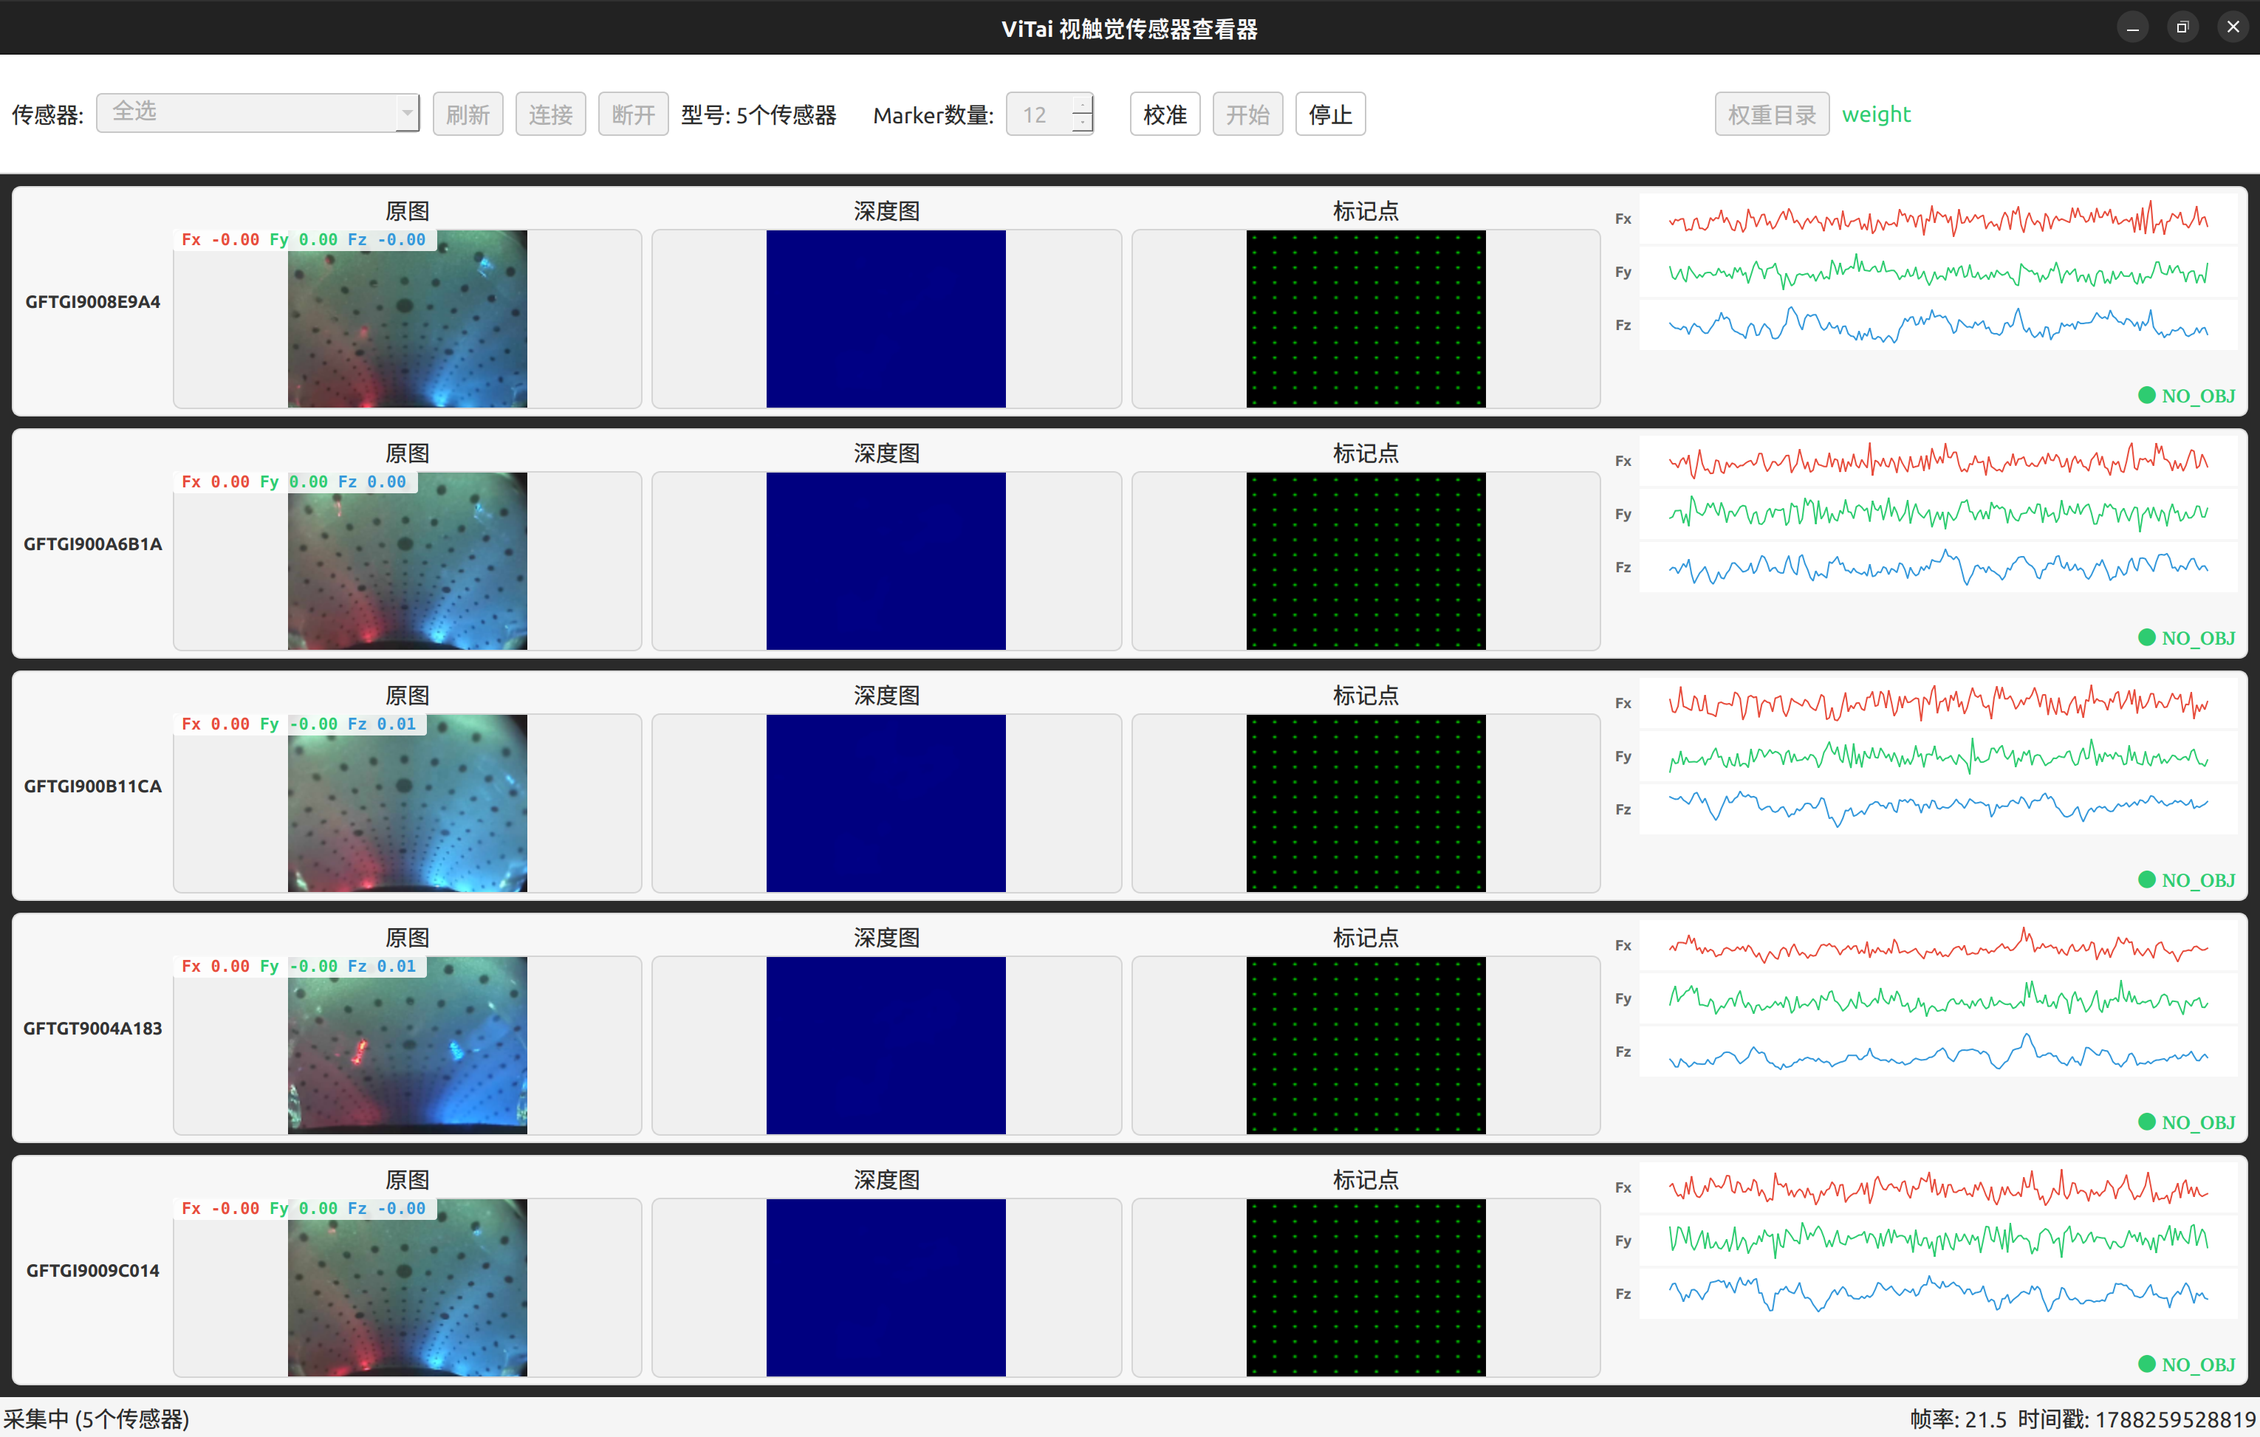
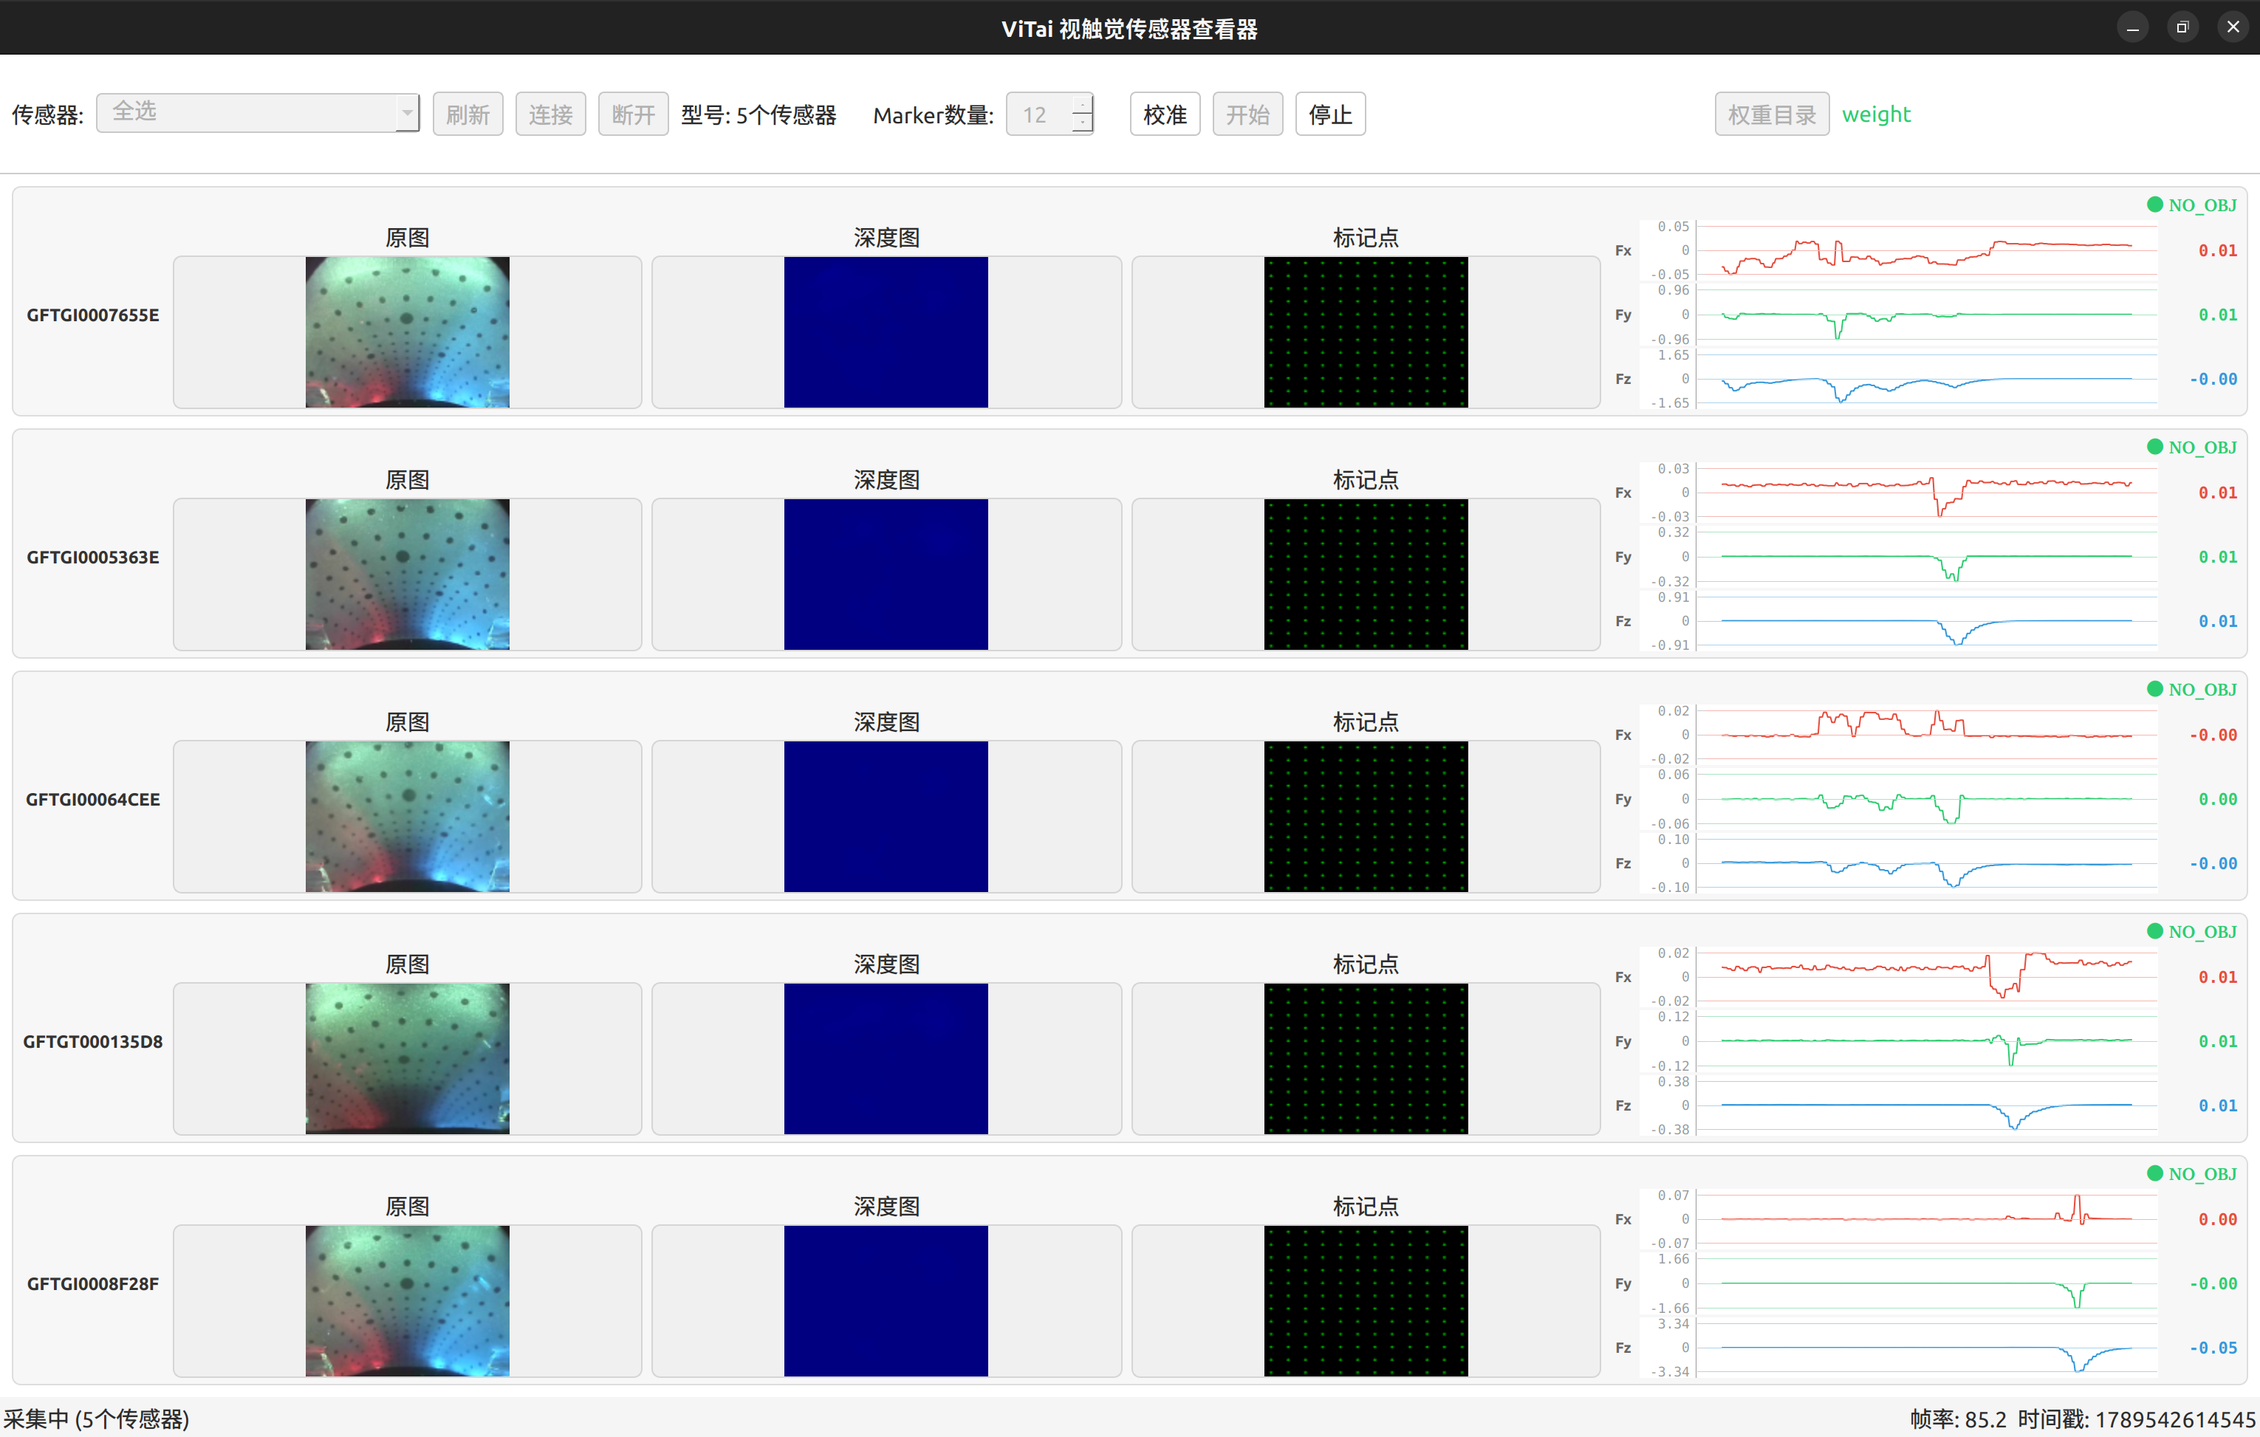
add:vertical axis of the waveform diagram

Changed region(s): [[0.0, 0.1233, 1.0, 1.0]]

diff --git a/app/widgets/multi_sensor_viewer.py b/app/widgets/multi_sensor_viewer.py
@@ -1,5 +1,3 @@
-import sys
-
 from PyQt6.QtWidgets import (
     QWidget,
     QVBoxLayout,
@@ -7,7 +5,8 @@ from PyQt6.QtWidgets import (
     QGridLayout,
     QLabel,
     QFrame,
-    QScrollArea,
+    QStackedWidget,
+    QScrollBar,
 )
 from PyQt6.QtCore import Qt
 from PyQt6.QtGui import QFont
@@ -15,9 +14,6 @@ from PyQt6.QtGui import QFont
 from app.widgets.image_viewer import ImageLabel
 from app.widgets.data_panel import ForcePlots
 from pyvitaisdk import VTSDataType
-
-
-_MONO_FONT = "Consolas" if sys.platform == "win32" else "DejaVu Sans Mono"
 
 
 class SensorRowWidget(QFrame):
@@ -30,8 +26,23 @@ class SensorRowWidget(QFrame):
         self._setup_ui()
 
     def _setup_ui(self):
-        h = QHBoxLayout(self)
-        h.setContentsMargins(6, 4, 6, 4)
+        # 整体行：右上角放小号滑动状态，下面为名称 + 图像 + 波形
+        v = QVBoxLayout(self)
+        v.setContentsMargins(6, 2, 6, 4)
+        v.setSpacing(2)
+
+        self.slip_label = QLabel("● --")
+        self.slip_label.setFont(QFont("", 9, QFont.Weight.Bold))
+        self.slip_label.setStyleSheet("color: #2ecc71;")
+        header = QHBoxLayout()
+        header.setContentsMargins(0, 0, 0, 0)
+        header.setSpacing(0)
+        header.addStretch(1)
+        header.addWidget(self.slip_label)
+        v.addLayout(header)
+
+        h = QHBoxLayout()
+        h.setContentsMargins(0, 0, 0, 0)
         h.setSpacing(6)
 
         # 传感器名称（行首）
@@ -42,15 +53,9 @@ class SensorRowWidget(QFrame):
         name.setStyleSheet("font-weight: bold; color: #333; font-size: 12px;")
         h.addWidget(name)
 
-        # 原图 + Fx/Fy/Fz（叠加在原图左上角）
+        # 原图
         self.raw_view = ImageLabel()
-        self.force_label = QLabel("Fx --  Fy --  Fz --")
-        self.force_label.setTextFormat(Qt.TextFormat.RichText)
-        self.force_label.setFont(QFont(_MONO_FONT, 8, QFont.Weight.Bold))
-        self.force_label.setStyleSheet(
-            "background-color: rgba(255,255,255,0.85); padding: 1px 3px; border-radius: 2px;"
-        )
-        raw_tile = self._tile("原图", self.raw_view, overlay=self.force_label)
+        raw_tile = self._tile("原图", self.raw_view)
 
         # 深度图
         self.depth_view = ImageLabel()
@@ -60,29 +65,17 @@ class SensorRowWidget(QFrame):
         self.marker_view = ImageLabel()
         marker_tile = self._tile("标记点", self.marker_view)
 
-        # 折线图（三根独立，竖排一列）+ 滑动状态（右下角）
+        # 折线图（三根独立，竖排一列）：去掉右下角滑动状态后占满整列，随行高伸缩
         self.force_plots = ForcePlots()
         for p in (self.force_plots.fx_plot, self.force_plots.fy_plot, self.force_plots.fz_plot):
-            p.setFixedHeight(34)
-        self.slip_label = QLabel("● --")
-        self.slip_label.setFont(QFont("", 10, QFont.Weight.Bold))
-        self.slip_label.setStyleSheet("color: #2ecc71;")
-
-        chart_col = QWidget()
-        cv = QVBoxLayout(chart_col)
-        cv.setContentsMargins(0, 0, 0, 0)
-        cv.setSpacing(2)
-        cv.addWidget(self.force_plots)
-        cv.addStretch(1)
-        slip_row = QHBoxLayout()
-        slip_row.addStretch()
-        slip_row.addWidget(self.slip_label)
-        cv.addLayout(slip_row)
+            p.setMinimumHeight(40)
 
         h.addWidget(raw_tile, 3)
         h.addWidget(depth_tile, 3)
         h.addWidget(marker_tile, 3)
-        h.addWidget(chart_col, 4)
+        h.addWidget(self.force_plots, 4)
+
+        v.addLayout(h, 1)
 
     def _tile(self, title, view, overlay=None):
         w = QWidget()
@@ -120,20 +113,10 @@ class SensorRowWidget(QFrame):
             self.marker_view.set_image(data[VTSDataType.MARKER_IMG])
         if VTSDataType.FORCE6D_VECTOR in data:
             f = data[VTSDataType.FORCE6D_VECTOR]
-            self._set_force(f)
             if f is not None and len(f) >= 6:
                 self.force_plots.update_data(f)
         if VTSDataType.SLIP_STATE in data:
             self._set_slip(data[VTSDataType.SLIP_STATE])
-
-    def _set_force(self, f):
-        if f is None or len(f) < 3:
-            return
-        self.force_label.setText(
-            f'<span style="color:#e74c3c;">Fx {f[0]:.2f}</span> '
-            f'<span style="color:#2ecc71;">Fy {f[1]:.2f}</span> '
-            f'<span style="color:#3498db;">Fz {f[2]:.2f}</span>'
-        )
 
     def _set_slip(self, state):
         if state is None:
@@ -146,49 +129,86 @@ class SensorRowWidget(QFrame):
         self.slip_label.setText(f"● {name}")
 
 
+def _chunk(seq, n):
+    """把序列切成若干长度不超过 n 的小块。"""
+    return [seq[i:i + n] for i in range(0, len(seq), n)]
+
+
 class MultiSensorViewer(QWidget):
-    """按行显示多个传感器内容的滚动区域。"""
+    """按页显示传感器：每页最多 PAGE_SIZE 个，滚轮或右侧滑块翻页。"""
+
+    PAGE_SIZE = 5  # 单页最多显示的传感器数量
 
     def __init__(self, parent=None):
         super().__init__(parent)
-        self._rows = {}
+        self._rows = {}   # sn -> SensorRowWidget
+        self._sns = []    # 当前传感器序列号（有序，用于分页）
 
         outer = QVBoxLayout(self)
         outer.setContentsMargins(0, 0, 0, 0)
         outer.setSpacing(0)
 
-        self._scroll = QScrollArea()
-        self._scroll.setWidgetResizable(True)
-        self._scroll.setHorizontalScrollBarPolicy(Qt.ScrollBarPolicy.ScrollBarAlwaysOff)
+        body = QHBoxLayout()
+        body.setContentsMargins(0, 0, 0, 0)
+        body.setSpacing(0)
 
-        self._container = QWidget()
-        self._layout = QVBoxLayout(self._container)
-        self._layout.setContentsMargins(8, 8, 8, 8)
-        self._layout.setSpacing(8)
+        self._stack = QStackedWidget()
+        self._scroll = QScrollBar(Qt.Orientation.Vertical)
+        self._scroll.setSingleStep(1)
+        self._scroll.setPageStep(1)
+        self._scroll.valueChanged.connect(self._stack.setCurrentIndex)
 
-        self._scroll.setWidget(self._container)
-        outer.addWidget(self._scroll)
+        body.addWidget(self._stack, 1)
+        body.addWidget(self._scroll)
+        outer.addLayout(body)
+
+    def wheelEvent(self, ev):
+        # 滚轮翻页：下滑下一页，上滑上一页
+        if self._scroll.maximum() <= 0:
+            super().wheelEvent(ev)
+            return
+        dy = ev.angleDelta().y()
+        if dy < 0:
+            self._scroll.setValue(self._scroll.value() + 1)
+        elif dy > 0:
+            self._scroll.setValue(self._scroll.value() - 1)
+        else:
+            super().wheelEvent(ev)
+        ev.accept()
 
     def set_sensors(self, sns):
-        self._clear_rows()
-        for sn in sns:
-            row = SensorRowWidget(sn)
-            self._rows[sn] = row
-            self._layout.addWidget(row, 1)
+        self._sns = list(sns)
+        self._rebuild()
 
     def remove_sensor(self, sn):
-        row = self._rows.pop(sn, None)
-        if row is not None:
-            self._layout.removeWidget(row)
-            row.deleteLater()
+        if sn in self._sns:
+            self._sns.remove(sn)
+        self._rebuild()
 
-    def _clear_rows(self):
-        while self._layout.count() > 0:
-            item = self._layout.takeAt(0)
-            w = item.widget()
-            if w is not None:
-                w.deleteLater()
+    def _rebuild(self):
+        # 清空旧页面与行
+        while self._stack.count() > 0:
+            w = self._stack.widget(0)
+            self._stack.removeWidget(w)
+            w.deleteLater()
         self._rows.clear()
+
+        # 每页最多 PAGE_SIZE 个，不足时行会自动拉伸填满页面
+        for page_sns in _chunk(self._sns, self.PAGE_SIZE):
+            page = QWidget()
+            pl = QVBoxLayout(page)
+            pl.setContentsMargins(8, 8, 8, 8)
+            pl.setSpacing(8)
+            for sn in page_sns:
+                row = SensorRowWidget(sn)
+                self._rows[sn] = row
+                pl.addWidget(row, 1)
+            self._stack.addWidget(page)
+
+        n = self._stack.count()
+        self._scroll.setRange(0, max(0, n - 1))
+        self._scroll.setVisible(n > 1)
+        self._scroll.setValue(0)
 
     def update_data(self, sn, data):
         row = self._rows.get(sn)
@@ -202,7 +222,8 @@ class MultiSensorViewer(QWidget):
                 row.set_loading(loading)
 
     def reset(self):
-        self._clear_rows()
+        self._sns = []
+        self._rebuild()
 
     def count(self):
         return len(self._rows)

diff --git a/app/widgets/data_panel.py b/app/widgets/data_panel.py
@@ -16,7 +16,7 @@ class ForcePlots(QWidget):
     def __init__(self, parent=None):
         super().__init__(parent)
         self._setup_ui()
-        self._buffer = deque(maxlen=200)
+        self._buffer = deque(maxlen=300)  # 可见帧：30Hz 下约 10 秒波形历史
 
     def _setup_ui(self):
         layout = QVBoxLayout(self)
@@ -27,26 +27,61 @@ class ForcePlots(QWidget):
 
         self.fx_plot = self._new_plot()
         self.fx_curve = self.fx_plot.plot(pen=pg.mkPen("#e74c3c", width=2))
+        self.fx_axis = self.fx_plot.getPlotItem().getAxis("left")
+        self.fx_refs = self._new_ref_lines(self.fx_plot, "#f5b7b1")
+        self.fx_value = self._new_value_label("#e74c3c")
         self.fy_plot = self._new_plot()
         self.fy_curve = self.fy_plot.plot(pen=pg.mkPen("#2ecc71", width=2))
+        self.fy_axis = self.fy_plot.getPlotItem().getAxis("left")
+        self.fy_refs = self._new_ref_lines(self.fy_plot, "#a9e6c3")
+        self.fy_value = self._new_value_label("#2ecc71")
         self.fz_plot = self._new_plot()
         self.fz_curve = self.fz_plot.plot(pen=pg.mkPen("#3498db", width=2))
+        self.fz_axis = self.fz_plot.getPlotItem().getAxis("left")
+        self.fz_refs = self._new_ref_lines(self.fz_plot, "#a9d3f0")
+        self.fz_value = self._new_value_label("#3498db")
 
-        layout.addWidget(self._labeled_row("Fx", self.fx_plot), 1)
-        layout.addWidget(self._labeled_row("Fy", self.fy_plot), 1)
-        layout.addWidget(self._labeled_row("Fz", self.fz_plot), 1)
+        layout.addWidget(self._labeled_row("Fx", self.fx_plot, self.fx_value), 1)
+        layout.addWidget(self._labeled_row("Fy", self.fy_plot, self.fy_value), 1)
+        layout.addWidget(self._labeled_row("Fz", self.fz_plot, self.fz_value), 1)
 
     def _new_plot(self):
         p = pg.PlotWidget()
         p.setBackground("#ffffff")
-        p.showGrid(x=True, y=True, alpha=0.15)
-        p.getPlotItem().hideButtons()
-        p.getPlotItem().hideAxis("left")
-        p.getPlotItem().hideAxis("bottom")
-        p.getPlotItem().setMouseEnabled(x=False, y=False)
+        p.showGrid(x=False, y=False)   # 关闭默认网格，参考线改由 _new_ref_lines 显式绘制
+        pi = p.getPlotItem()
+        pi.hideButtons()
+        pi.showAxis("left")
+        pi.hideAxis("bottom")
+        pi.setMouseEnabled(x=False, y=False)
+
+        # 纵坐标（y 轴）：小字号、紧凑宽度；轴线与刻度文字灰色，刻度短线浅灰
+        y_axis = pi.getAxis("left")
+        y_axis.setStyle(tickFont=QFont(_MONO_FONT, 7))
+        y_axis.setWidth(38)
+        y_axis.setPen(pg.mkPen("#999999"))        # 轴线灰色
+        y_axis.setTextPen(pg.mkPen("#999999"))    # 刻度文字灰色
+        y_axis.setTickPen(pg.mkPen("#cccccc"))    # 刻度短线浅灰（非参考线）
         return p
 
-    def _labeled_row(self, name, plot):
+    def _new_ref_lines(self, plot, light_color):
+        """三条数值参考线（-峰值 / 0 / +峰值），用各轴颜色的浅色版本，位置随峰值更新。"""
+        refs = []
+        for _ in range(3):
+            ln = pg.InfiniteLine(angle=0, pen=pg.mkPen(light_color, width=1))
+            plot.addItem(ln)
+            refs.append(ln)
+        return refs
+
+    def _new_value_label(self, color):
+        lab = QLabel("--")
+        lab.setFixedWidth(52)
+        lab.setAlignment(Qt.AlignmentFlag.AlignRight | Qt.AlignmentFlag.AlignVCenter)
+        lab.setFont(QFont(_MONO_FONT, 8, QFont.Weight.Bold))
+        lab.setStyleSheet(f"color: {color};")
+        return lab
+
+    def _labeled_row(self, name, plot, value_label):
         w = QWidget()
         l = QHBoxLayout(w)
         l.setContentsMargins(0, 0, 0, 0)
@@ -57,6 +92,7 @@ class ForcePlots(QWidget):
         lab.setStyleSheet("font-weight: bold; font-size: 10px; color: #666;")
         l.addWidget(lab)
         l.addWidget(plot, 1)
+        l.addWidget(value_label)
         return w
 
     def update_data(self, force6d):
@@ -72,6 +108,40 @@ class ForcePlots(QWidget):
         self.fy_curve.setData(x, arr[:, 1])
         self.fz_curve.setData(x, arr[:, 2])
 
+        # 右侧固定数值
+        self.fx_value.setText(f"{arr[-1, 0]:.2f}")
+        self.fy_value.setText(f"{arr[-1, 1]:.2f}")
+        self.fz_value.setText(f"{arr[-1, 2]:.2f}")
+
+        # 纵坐标：峰值维持到出框——以可见帧内最大绝对值为上下界，0 居中不变
+        abs_arr = np.abs(arr)
+        self._apply_y_scale(self.fx_plot, self.fx_axis, self.fx_refs, float(abs_arr[:, 0].max()))
+        self._apply_y_scale(self.fy_plot, self.fy_axis, self.fy_refs, float(abs_arr[:, 1].max()))
+        self._apply_y_scale(self.fz_plot, self.fz_axis, self.fz_refs, float(abs_arr[:, 2].max()))
+
+    def _apply_y_scale(self, plot, axis, refs, v):
+        v = max(v, 0.01)   # 防止零范围
+        margin = v * 0.2   # 上下留白，避免刻度标签贴边被裁
+        plot.setYRange(-v - margin, v + margin, padding=0)
+        ticks = [
+            (-v, self._fmt(-v)),
+            (0.0, "0"),
+            (v, self._fmt(v)),
+        ]
+        axis.setTicks([ticks, []])
+        # 数值参考线对齐到当前刻度值
+        refs[0].setPos(-v)
+        refs[1].setPos(0.0)
+        refs[2].setPos(v)
+
+    def _fmt(self, v):
+        av = abs(v)
+        if av >= 100:
+            return f"{v:.0f}"
+        if av >= 10:
+            return f"{v:.1f}"
+        return f"{v:.2f}"
+
     def reset(self):
         self._buffer.clear()
         x = []
@@ -79,6 +149,13 @@ class ForcePlots(QWidget):
         self.fx_curve.setData(x, y)
         self.fy_curve.setData(x, y)
         self.fz_curve.setData(x, y)
+        for lab in (self.fx_value, self.fy_value, self.fz_value):
+            lab.setText("--")
+        for axis in (self.fx_axis, self.fy_axis, self.fz_axis):
+            axis.setTicks([[], []])
+        for refs in (self.fx_refs, self.fy_refs, self.fz_refs):
+            for ln in refs:
+                ln.setPos(0.0)
 
 
 class DataPanel(QWidget):
